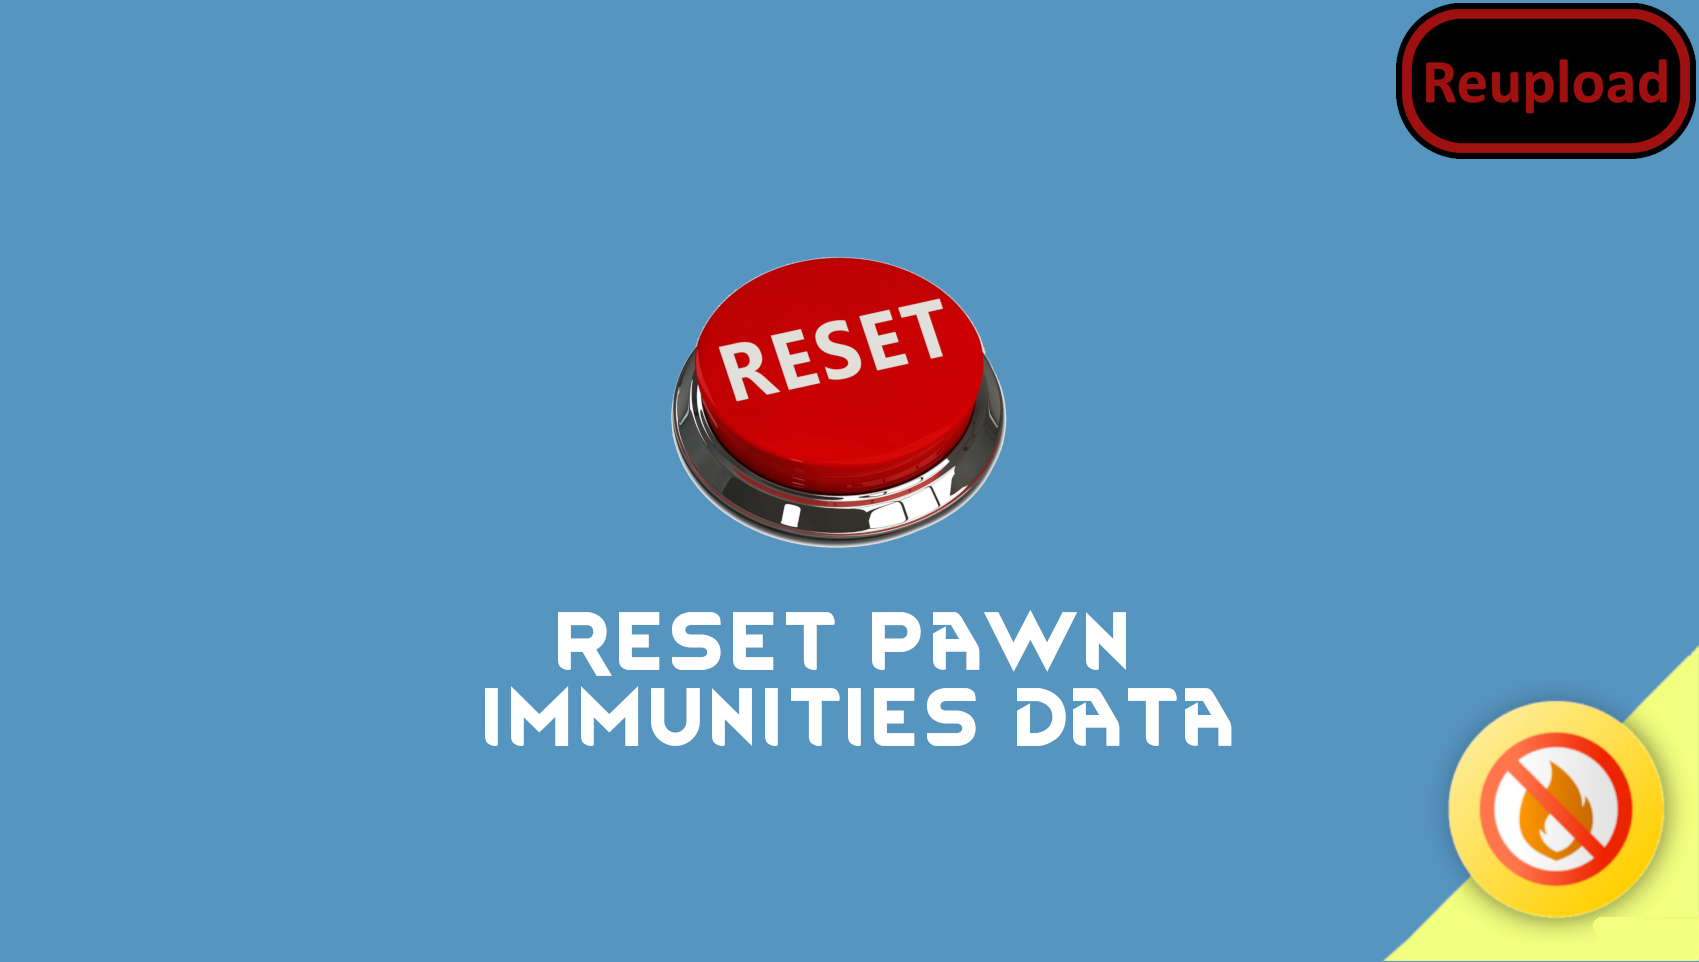
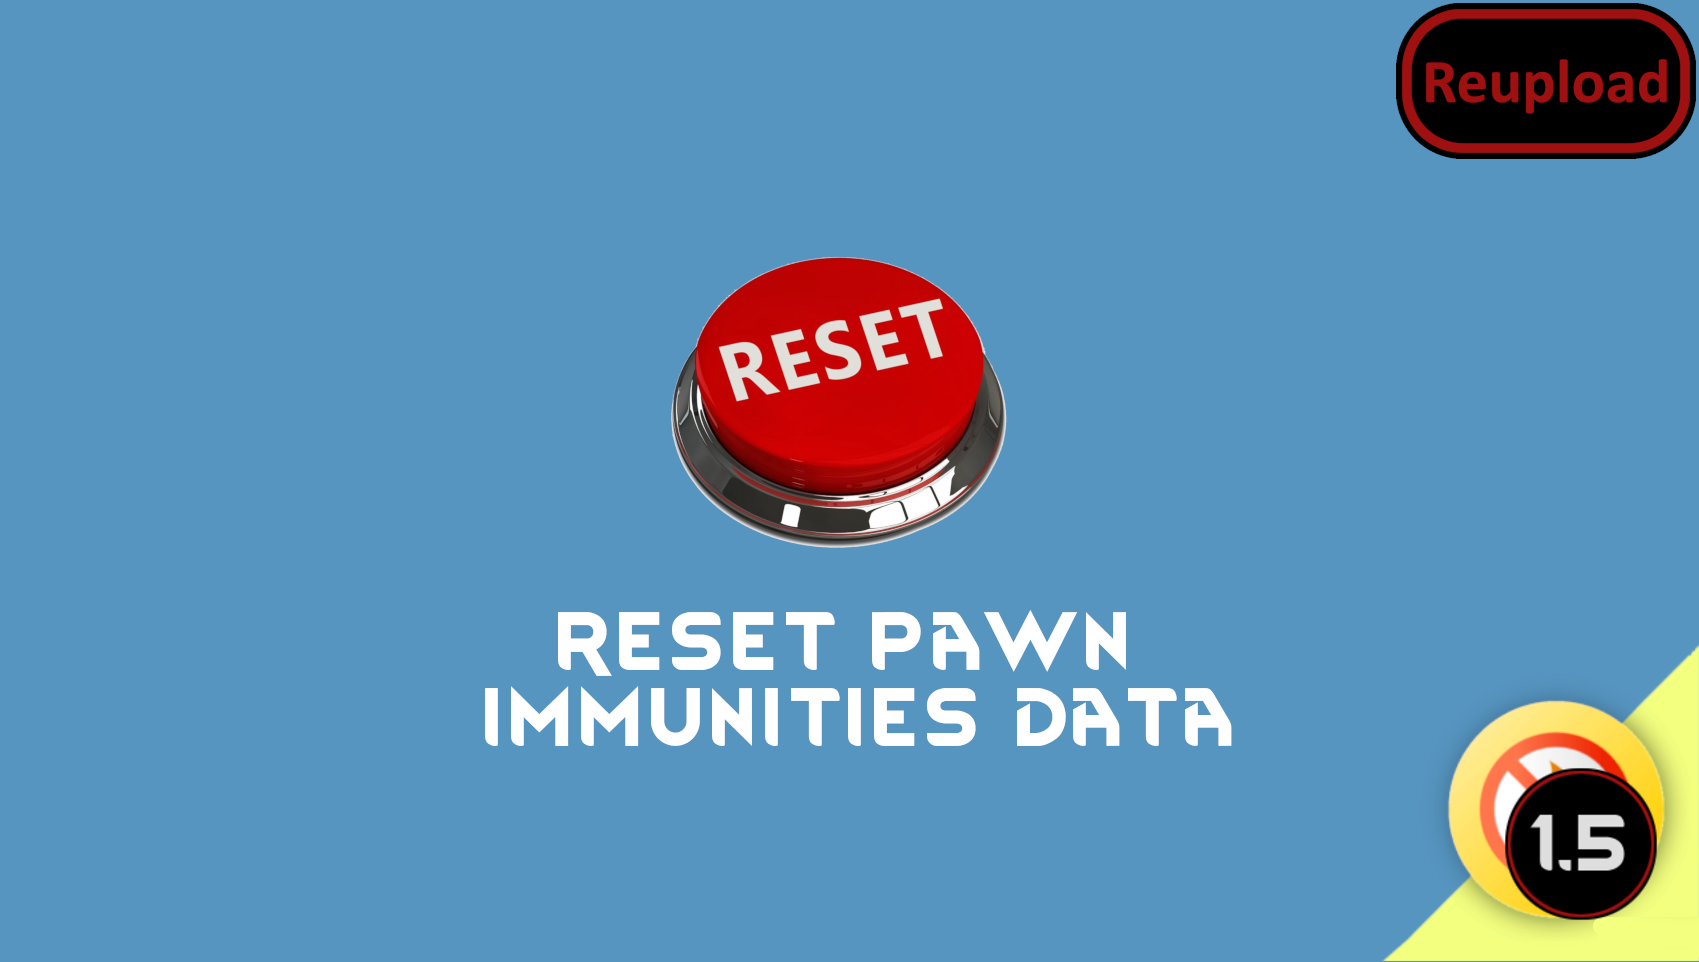
Mod updated for 1.5 and passed autotests Used DeepL to update translations for French, German

Changed region(s): [[0.8735, 0.7796, 0.9982, 0.9667]]

diff --git a/Source/ImmuCorrect/NonPublicFields.cs b/Source/ImmuCorrect/NonPublicFields.cs
@@ -7,6 +7,6 @@ namespace ImmuCorrect;
 [StaticConstructorOnStartup]
 public static class NonPublicFields
 {
-    public static AccessTools.FieldRef<ImmunityHandler, List<ImmunityRecord>> ImmunityList =
+    public static readonly AccessTools.FieldRef<ImmunityHandler, List<ImmunityRecord>> ImmunityList =
         AccessTools.FieldRefAccess<ImmunityHandler, List<ImmunityRecord>>("immunityList");
 }

diff --git a/Source/ImmuCorrect/Controller.cs b/Source/ImmuCorrect/Controller.cs
@@ -13,7 +13,7 @@ public class Controller : Mod
     {
         Settings = GetSettings<Settings>();
         currentVersion =
-            VersionFromManifest.GetVersionFromModMetaData(ModLister.GetActiveModWithIdentifier("Mlie.ImmunitiesReset"));
+            VersionFromManifest.GetVersionFromModMetaData(content.ModMetaData);
     }
 
     public override string SettingsCategory()

diff --git a/README.md b/README.md
@@ -48,11 +48,13 @@ Japanese translation - Proxyer
 
 -  See if the the error persists if you just have this mod and its requirements active.
 -  If not, try adding your other mods until it happens again.
--  Post your error-log using https://steamcommunity.com/workshop/filedetails/?id=818773962]HugsLib and command Ctrl+F12
+-  Post your error-log using https://steamcommunity.com/workshop/filedetails/?id=818773962]HugsLib or the standalone https://steamcommunity.com/sharedfiles/filedetails/?id=2873415404]Uploader and command Ctrl+F12
 -  For best support, please use the Discord-channel for error-reporting.
 -  Do not report errors by making a discussion-thread, I get no notification of that.
 -  If you have the solution for a problem, please post it to the GitHub repository.
+-  Use https://github.com/RimSort/RimSort/releases/latest]RimSort to sort your mods
 
 
 
+https://steamcommunity.com/sharedfiles/filedetails/changelog/2195961535]![Image](https://img.shields.io/github/v/release/emipa606/ImmunitiesReset?label=latest%20version&style=plastic&color=9f1111&labelColor=black)
 
